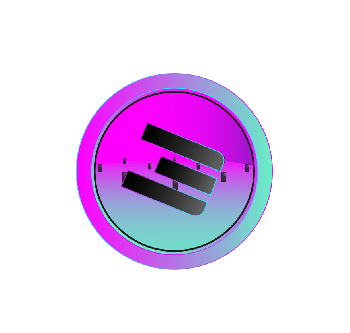
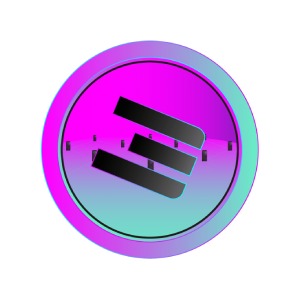
edit

Changed region(s): [[0.12, 0.12, 0.87, 0.87]]

diff --git a/content/tft/index.md b/content/tft/index.md
@@ -7,9 +7,11 @@ insert_anchor_links: "left"
 
 <!-- section 1 (be the Internet) -->
 
-{% row(style="center narrow") %}
+{% row(style="center margin narrow") %}
 
-![](tft_header1.png#medium)
+
+![](tft_header.png#medium)
+s
 
 {% end %}
 
